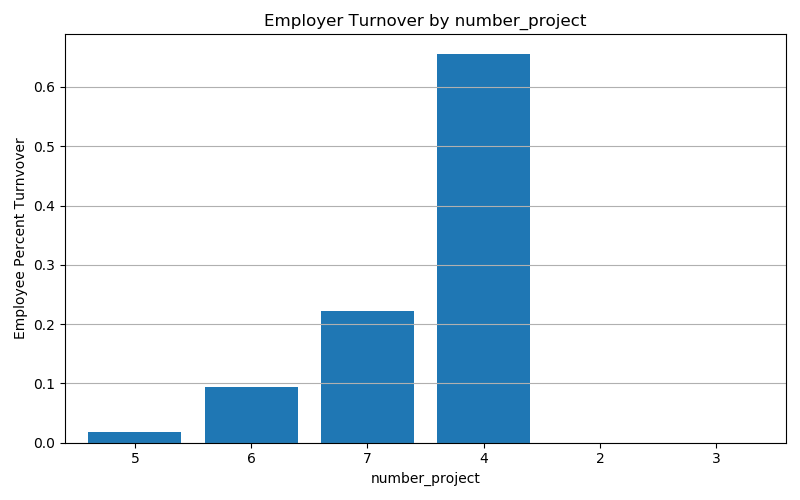
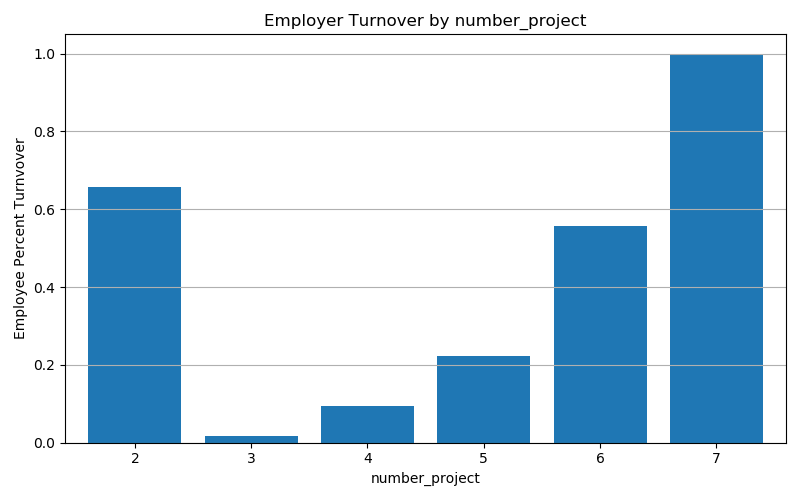
second update to percentage_plot function

diff --git a/src/employee_turnover.py b/src/employee_turnover.py
@@ -37,36 +37,35 @@ def create_cat_percentage_df():
                    'Work_accident', 'promotion_last_5years', 'department', 'salary']
 
     for cat in cat_feature:
-        
-        # left_df = left_df[cat_feature]
-        # stayed_df = stayed_df[cat_feature]
 
         # initiating the dataframe
         current = turnover[cat].value_counts()
         current.sort_index(inplace=True)
-        # current_col = list(current.index)
-        # current_code = turnover[cat].value_counts()
-        # current_code.sort_index(inplace=True)
-        # current_code_col = list(current_code.index)
-        breakpoint()
+
         current_dict = {f'{cat}': list(current.index), 'total_count': current.values} # data for new dataframe
         current_df = pd.DataFrame(data=current_dict)
 
         # adding percentage convergance
-        lefted = left_df[cat].value_counts()
-        lefted.sort_index(inplace=True)
-        current_df['left'] = lefted.values
+        left = left_df[cat].value_counts()
+        left.sort_index(inplace=True)
+        left = left.values.tolist()
+        breakpoint()
+        try:
+            current_df['left'] = left
+        except:
+            while len(left) < current_df.shape[0]:
+                left.append(None)
 
         stayed = stayed_df[cat].value_counts()
         stayed.sort_index(inplace=True)
-        stayed.values.tolist()
-        stayed.append(None)
-        current_df['stayed'] = stayed
-
+        stayed = stayed.values.tolist()
+        try:
+            current_df['stayed'] = stayed
+        except:
+            while len(stayed) < current_df.shape[0]:
+                stayed.append(None)
+        
         current_df['left_percentage'] = current_df['left'] / current_df['total_count']
-        # breakpoint()
-        # current_df.sort_values(by=cat, axis=0, inplace=True)
-
         plot_side_by_side_percentage_barcharts(current_df)
 
 def plot_ROC_curve():
